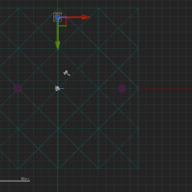
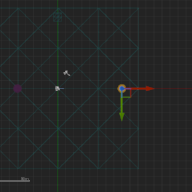
add debug functions

Changed region(s): [[0.25, 0.0625, 0.4688, 0.25], [0.5938, 0.4375, 0.8125, 0.625]]

diff --git a/Source/ClearPath/NavComponent.cpp b/Source/ClearPath/NavComponent.cpp
@@ -38,6 +38,10 @@ void UNavComponent::TickComponent( float DeltaTime, ELevelTick TickType, FActorC
 void UNavComponent::CreateNavigator_Implementation(const FVector& newTargetLocation, float navRadius, float navMaxSpeed)
 {
 	nav = std::make_unique<Navigator>(navRadius, navMaxSpeed, GetOwner()->GetActorLocation(), newTargetLocation);
+	nav->DrawDebugLine = [this](const FVector& start, const FVector& end, const FColor& color, bool persistent, float lifetime)
+	{
+		DrawDebugLine(start, end, FLinearColor(color), persistent, lifetime);
+	};
 }
 
 FVector UNavComponent::GetNavLocation() const

diff --git a/Source/ClearPath/Navigator.h b/Source/ClearPath/Navigator.h
@@ -1,5 +1,7 @@
 #pragma once
 
+#include <functional>
+
 namespace Directive
 {
 	using UnitType = float;
@@ -15,9 +17,12 @@ public:
 
 	Directive::Vector GetVelocity() const { return velocity; }
 	Directive::Vector GetPosition() const { return position; }
+	
+	std::function<void(const FVector&, const FVector&, const FColor&, bool, float)> DrawDebugLine;
 
 private:
 	// intrinsic
+	bool showDebug = true;
 	Directive::UnitType radius = 0;
 	Directive::UnitType maxSpeed = 0;
 

diff --git a/Source/ClearPath/NavComponent.h b/Source/ClearPath/NavComponent.h
@@ -33,6 +33,9 @@ public:
 	UFUNCTION(BlueprintCallable, Category = "NavComponent")
 	FVector GetNavVelocity() const;
 
+	UFUNCTION(BlueprintImplementableEvent, Category = "NavComponent")
+	void DrawDebugLine(const FVector& start, const FVector& end, FLinearColor color, bool persistent, float lifetime);
+
 private:
 	std::unique_ptr<Navigator> nav;
 };

diff --git a/Source/ClearPath/Navigator.cpp b/Source/ClearPath/Navigator.cpp
@@ -17,4 +17,12 @@ void Navigator::Update(UnitType deltaTime)
 	velocity = maxSpeed * velocity.GetSafeNormal();
 	
 	position += velocity * deltaTime;
+
+	if (showDebug)
+	{
+		if (DrawDebugLine)
+		{
+			DrawDebugLine(position, target, FColor::Red, false, deltaTime);
+		}
+	}
 }
